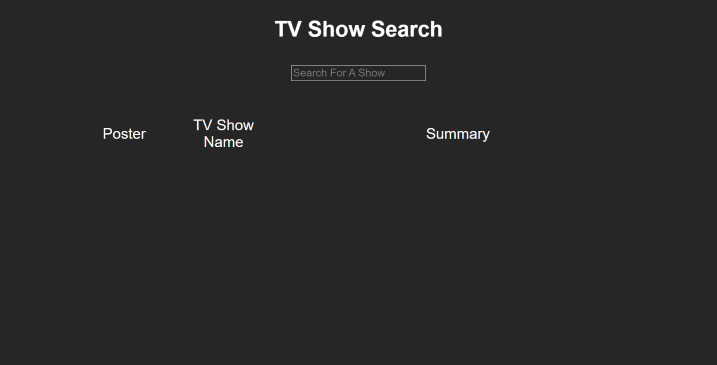
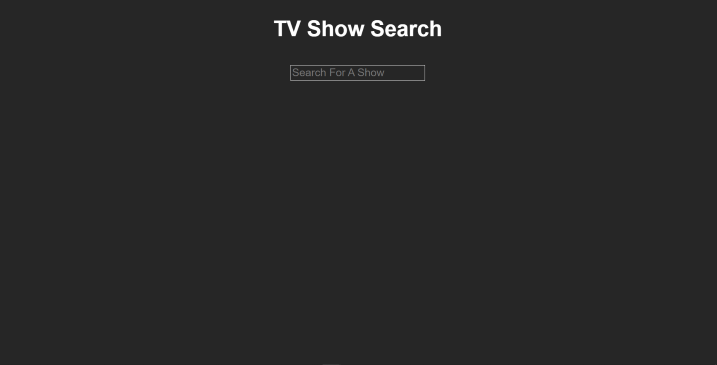
hide the table upon loading page

diff --git a/app.js b/app.js
@@ -3,10 +3,13 @@ const userInput = document.getElementById('searchInput');
 const tbody = document.getElementById('tBody');
 const tbl = document.getElementById('tbl');
 
+tbl.hidden = true
 
 
 form.addEventListener('keyup', async (e) => {
     e.preventDefault();
+tbl.hidden = false
+
     tbody.innerText = '';
 
     const res = await axios.get(

diff --git a/index.html b/index.html
@@ -14,7 +14,7 @@
       <input type="text" name="query" id="searchInput" placeholder="Search For A Show" autocomplete="off" />
     </form>
     <table id="tbl">
-      <thead>
+      <thead id="titlerow">
         <td class="cover">Poster</td>
         <td>TV Show Name</td>
         <td class="summary">Summary</td>
